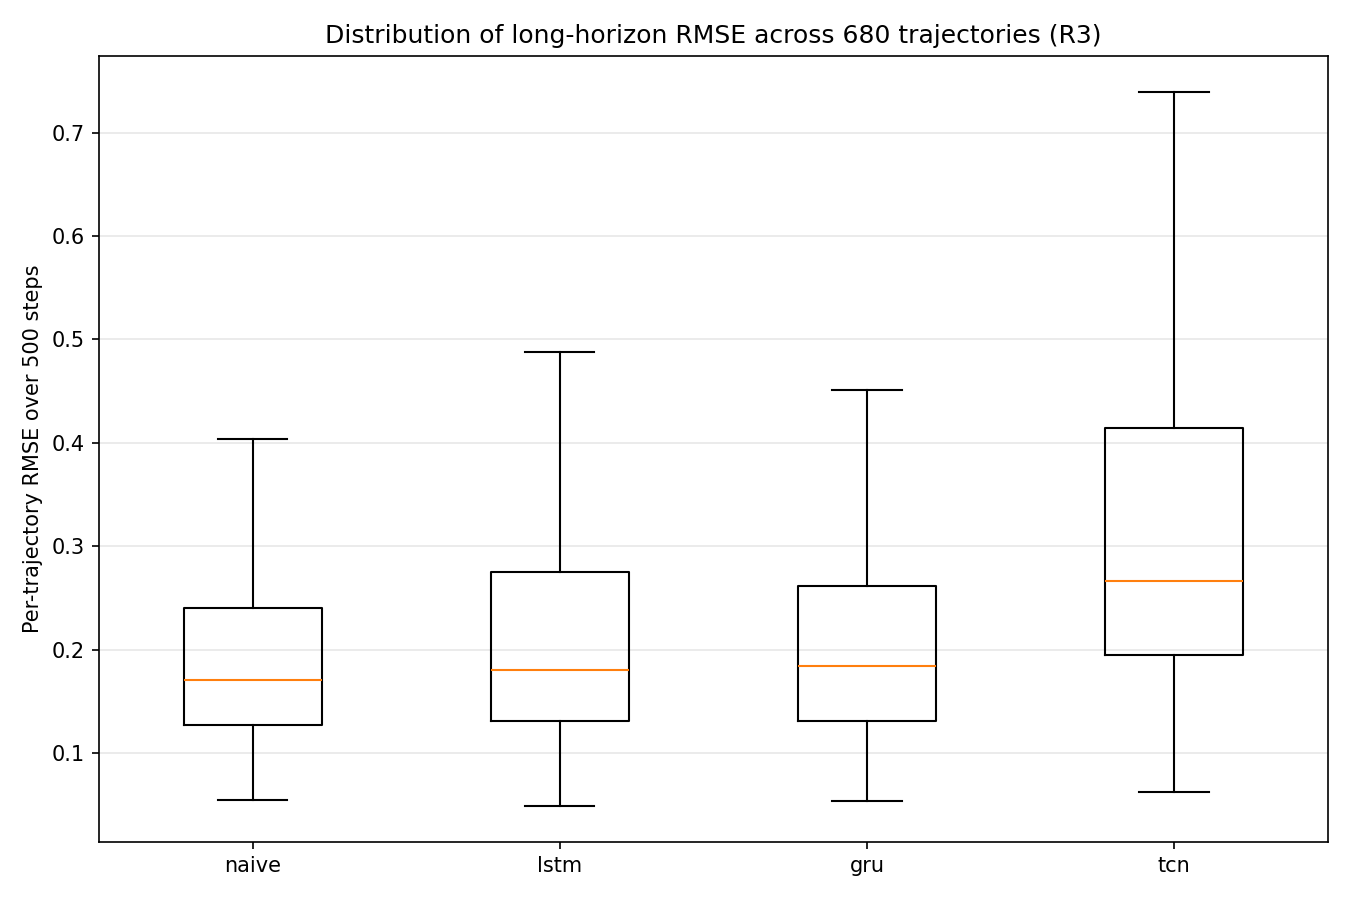
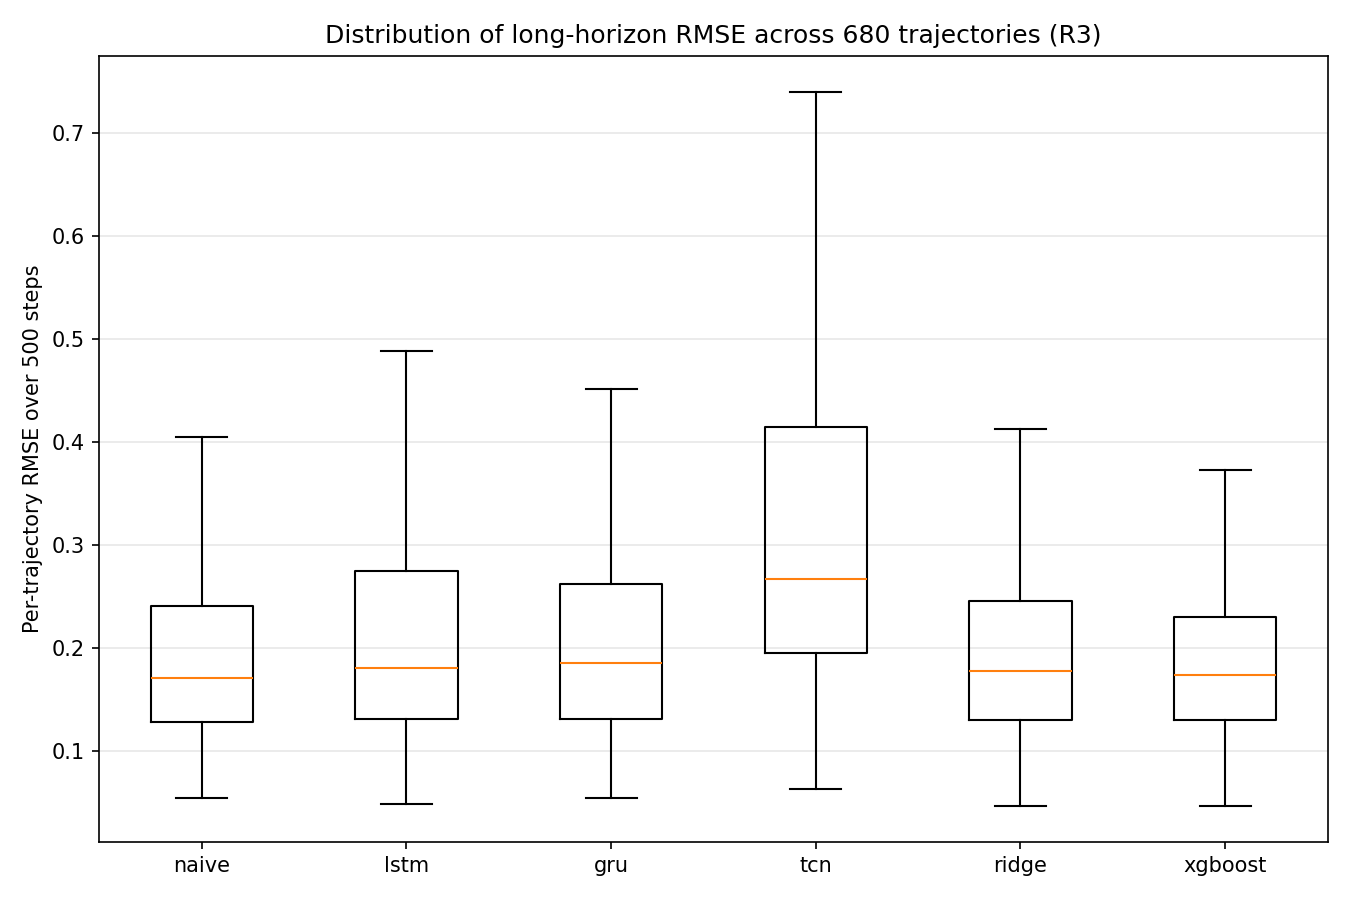
results: add classical multi-trajectory rows (XGBoost beats naive)
Re-fit Ridge + XGBoost over 680 trajectories (stride-30 train set to fit in
RAM; RF still pending). Two further single-trajectory artifacts corrected:
- XGBoost BEATS naive at h=500 (RMSE 0.209 vs 0.231, R2 0.79, DM +12.7,
  wins 53% of trajectories) — legacy single-traj reported a tie (p=0.20).
- Ridge is STABLE (0.256, R2 0.69), does not diverge — legacy reported ~1e4.

Three models now beat naive at h=500: PatchTST, LSTM-direct, XGBoost.
evaluate_long_horizon.py: --classical-step (default 30) + gc/del to avoid OOM.
Updated README, docs/index.html, RESULTS_SUMMARY; plots regenerated.

diff --git a/docs/index.html b/docs/index.html
@@ -374,7 +374,7 @@
 <section id="results">
   <div class="container">
     <div class="section-title">Results - h = 500 (Round 3, multi-trajectory)</div>
-    <p class="section-sub">RMSE and R2 at step h = 500, aggregated over the full 146,880-window test set (denormalised windward C<sub>p</sub>) - the same regime for every model. An earlier single-trajectory evaluation inflated the naive baseline (RMSE 0.118 / R2 0.97) and the deep-model "collapse" (R2 -6.18); those were measurement artifacts. Lower RMSE = better; R2 closer to 1 = better. Classical rows (*) still show legacy single-trajectory values pending re-fit.</p>
+    <p class="section-sub">RMSE and R2 at step h = 500, aggregated over the full 146,880-window test set (denormalised windward C<sub>p</sub>) - the same regime for every model. An earlier single-trajectory evaluation inflated the naive baseline (RMSE 0.118 / R2 0.97) and the deep-model "collapse" (R2 -6.18); those were measurement artifacts. Lower RMSE = better; R2 closer to 1 = better. Random Forest (*) still shows a legacy single-trajectory value (re-fit pending); Ridge and XGBoost now use the corrected multi-trajectory regime.</p>
     <div class="table-wrap">
       <table>
         <thead>
@@ -399,13 +399,13 @@
             <td><span class="tag tag-blue">Baseline</span></td>
           </tr>
           <tr>
-            <td>Ridge *</td>
+            <td>Ridge</td>
             <td>Autoreg</td>
             <td>0.0224</td>
-            <td>~10^4 </td>
-            <td>diverges</td>
-            <td>-</td>
-            <td><span class="tag tag-red">Unstable</span></td>
+            <td>0.256</td>
+            <td>0.69</td>
+            <td>p &lt; 0.001 (naive wins)</td>
+            <td><span class="tag tag-orange">Underperforms</span></td>
           </tr>
           <tr>
             <td>Random Forest *</td>
@@ -417,13 +417,13 @@
             <td><span class="tag tag-orange">Pending re-fit</span></td>
           </tr>
           <tr>
-            <td class="bold">XGBoost *</td>
+            <td class="bold">XGBoost</td>
             <td>Autoreg</td>
             <td>0.0242</td>
-            <td>0.115</td>
-            <td>-</td>
-            <td>legacy single-traj</td>
-            <td><span class="tag tag-orange">Pending re-fit</span></td>
+            <td>0.209</td>
+            <td>0.79</td>
+            <td>beats naive (DM +12.7)</td>
+            <td><span class="tag tag-green">Beats naive</span></td>
           </tr>
           <tr>
             <td>LSTM</td>
@@ -474,7 +474,7 @@
       </table>
     </div>
     <p style="margin-top:14px;font-size:0.8rem;color:var(--text-muted)">
-      * Ridge / Random Forest / XGBoost still show legacy <em>single-trajectory</em> h = 500 values (multi-trajectory re-fit pending); all other rows use the corrected 146,880-window regime. High R2 at h = 500 does not mean spectral fidelity. See <a href="#findings">Spectral Findings</a>.
+      * Random Forest still shows a legacy <em>single-trajectory</em> h = 500 value (multi-trajectory re-fit pending, ~2 h on CPU); all other rows use the corrected 680-trajectory / 146,880-window regime. High R2 at h = 500 does not mean spectral fidelity. See <a href="#findings">Spectral Findings</a>.
     </p>
   </div>
 </section>
@@ -491,7 +491,7 @@
       </div>
       <div class="finding danger">
         <div class="finding-label">FINDING 2 | Autoregressive rollout (corrected)</div>
-        <p><strong>Over 680 trajectories, autoregressive LSTM/GRU reach R2 ~ 0.64-0.65 at h = 500</strong> - modestly below naive persistence (R2 = 0.74), not the catastrophic R2 = -6.18 reported under single-trajectory evaluation. LSTM/GRU actually beat naive on ~45 % of trajectories; only <strong>TCN</strong> genuinely destabilises (R2 = 0.19) by amplifying compounded feedback error.</p>
+        <p><strong>Over 680 trajectories, autoregressive LSTM/GRU reach R2 ~ 0.64-0.65 at h = 500</strong> - modestly below naive persistence (R2 = 0.74), not the catastrophic R2 = -6.18 reported under single-trajectory evaluation. LSTM/GRU actually beat naive on ~45 % of trajectories, and <strong>XGBoost beats naive outright</strong> (RMSE 0.209 vs 0.231, DM +12.7); Ridge stays stable (0.256, no divergence). Only <strong>TCN</strong> genuinely destabilises (R2 = 0.19) by amplifying compounded feedback error.</p>
       </div>
       <div class="finding">
         <div class="finding-label">FINDING 3 | Direct multi-step fixes rollout</div>

diff --git a/Agent_Test/evaluate_long_horizon.py b/Agent_Test/evaluate_long_horizon.py
@@ -176,6 +176,9 @@ def main():
     ap.add_argument("--traj-per-series", type=int, default=2)
     ap.add_argument("--classical", action="store_true",
                     help="re-fit Ridge + XGBoost and include them (heavy load)")
+    ap.add_argument("--classical-step", type=int, default=30,
+                    help="window stride for the classical re-fit train set "
+                         "(larger = fewer windows = less RAM; default 30)")
     ap.add_argument("--rf", action="store_true",
                     help="also re-fit RandomForest (~2 h on CPU)")
     args = ap.parse_args()
@@ -202,18 +205,29 @@ def main():
         preds_d[name] = rollout(dl_step_fn(model), seeds, H) * sigma_w + mu_w
 
     if args.classical:
+        import gc
         from train_utils import get_data
         from classical_utils import flatten
-        print("  loading R3 windows for classical re-fit (heavy) ...")
-        data = get_data("all", SEQ, 10, 1)
-        Xtr = flatten(data["X_train"]); ytr = data["y_train"].squeeze().astype(np.float32)
-        from ridge.models.ridge import build as build_ridge
+        # Coarser stride keeps the windowed train set small enough to fit in RAM
+        # alongside the tree-builder's internal copy (avoids silent OOM kills on
+        # 16 GB machines). 776k windows @ step10 -> ~260k @ step30.
+        print(f"  loading R3 train windows for classical re-fit "
+              f"(step={args.classical_step}) ...")
+        data = get_data("all", SEQ, args.classical_step, 1)
+        Xtr = flatten(data["X_train"])
+        ytr = data["y_train"].squeeze().astype(np.float32)
+        del data                      # free X_val / X_test / X_train original
+        gc.collect()
+        print(f"  Xtr {Xtr.shape}  ({Xtr.nbytes/1e9:.2f} GB)")
+
         import importlib
+        from ridge.models.ridge import build as build_ridge
         classical = {"ridge": build_ridge()}
         xgb_mod = importlib.import_module("xgboost")
         classical["xgboost"] = xgb_mod.XGBRegressor(
             n_estimators=500, max_depth=6, learning_rate=0.1, subsample=0.8,
-            colsample_bytree=0.8, tree_method="hist", random_state=42, n_jobs=-1)
+            colsample_bytree=0.8, tree_method="hist", max_bin=128,
+            random_state=42, n_jobs=-1)
         if args.rf:
             from random_forest.models.random_forest import build as build_rf
             classical["random_forest"] = build_rf()
@@ -223,6 +237,8 @@ def main():
             print(f"  rolling out {cname} ...")
             preds_d[cname] = rollout(classical_step_fn(est), seeds, H,
                                      chunk=4096) * sigma_w + mu_w
+        del Xtr, ytr
+        gc.collect()
 
     # ── per-horizon table (per-step @ h, aggregated over all trajectories) ──
     rows = []

diff --git a/README.md b/README.md
@@ -21,14 +21,18 @@ artifact — see [`evaluate_long_horizon.py`](Agent_Test/evaluate_long_horizon.p
 |-------|----------|:----------:|:--------:|:--------:|
 | **PatchTST** | Direct multi-step | **0.175** | **0.85** | **beats** |
 | **LSTM-direct** | Direct multi-step | **0.179** | **0.84** | **beats** |
+| **XGBoost** | Autoregressive | **0.209** | **0.79** | **beats** (DM +12.7) |
 | Naive persistence | — | 0.231 | 0.74 | baseline |
+| Ridge | Autoregressive | 0.256 | 0.69 | slightly worse (stable) |
 | LSTM autoregressive | Autoregressive | 0.270 | 0.65 | slightly worse |
 | GRU autoregressive | Autoregressive | 0.273 | 0.64 | slightly worse |
 | TCN autoregressive | Autoregressive | 0.411 | 0.19 | collapses |
 
+(Classical rows re-fit at stride 30; Random Forest multi-trajectory re-fit still pending. Naive is the exact 146,880-window value; the other rows use 680 trajectories.)
+
 **Key findings:**
-1. **Direct multi-step training beats naive persistence at h=500** (RMSE 0.175–0.179 vs 0.231); autoregressive rollout does not.
-2. The earlier "catastrophic collapse" of autoregressive deep models (reported R² = −6.18) was largely a **single-trajectory artifact**. Over 680 trajectories, LSTM/GRU reach R² ≈ 0.65 and beat naive on ~45 % of trajectories; only **TCN** is genuinely unstable.
+1. **Three models beat naive persistence at h=500** — both direct multi-step models (PatchTST 0.175, LSTM-direct 0.179) and, more surprisingly, **autoregressive XGBoost** (0.209, beats naive on 53 % of trajectories, DM +12.7).
+2. The earlier "catastrophic collapse" of autoregressive deep models (reported R² = −6.18) and "Ridge diverges to ~10⁴" were both **single-trajectory artifacts**. Over 680 trajectories, LSTM/GRU reach R² ≈ 0.65 (beating naive on ~45 % of trajectories), Ridge is stable (0.256), and only **TCN** is genuinely unstable.
 3. Despite winning on RMSE/R², the predicted PSD of the direct models stays **60–75× below the true-signal PSD at all frequencies** — MSE training collapses to the conditional mean, so the forecasts remain unusable for spectrum-dependent wind-engineering quantities (fatigue, peak factor).
 
 ## Repo Structure

diff --git a/Agent_Test/RESULTS_SUMMARY.md b/Agent_Test/RESULTS_SUMMARY.md
@@ -104,10 +104,18 @@ reaches RMSE ≈ 0.04 and R² > 0.99. Differences here are not informative.
 |---|---:|---:|---|
 | PatchTST (direct) | **0.175** | **0.85** | **beats naive** |
 | LSTM-direct | **0.179** | **0.84** | **beats naive** |
+| XGBoost (autoreg) | **0.209** | **0.79** | **beats naive** (DM +12.7, wins 53 % of traj.) |
 | Naive persistence | 0.231 | 0.74 | baseline |
+| Ridge (autoreg) | 0.256 | 0.69 | stable, slightly worse (no divergence) |
 | LSTM (autoreg) | 0.270 | 0.65 | beats naive on 44 % of traj. |
 | GRU (autoreg) | 0.273 | 0.64 | beats naive on 47 % of traj. |
 | TCN (autoreg) | 0.411 | 0.19 | genuinely unstable |
+
+(Classical rows re-fit at stride 30 for memory; Random Forest re-fit still
+pending. Naive is the exact 146,880-window value; other rows use 680
+trajectories. **XGBoost beating naive and Ridge not diverging are two further
+single-trajectory artifacts corrected here** — the legacy §4 reported XGBoost as
+a tie and Ridge diverging to ~10⁴.)
 
 **Direct multi-step (B.4 + C.6) beats naive persistence.** Identical LSTM
 backbone trained with `Linear(128 → 500)` head + full-vector MSE achieves
